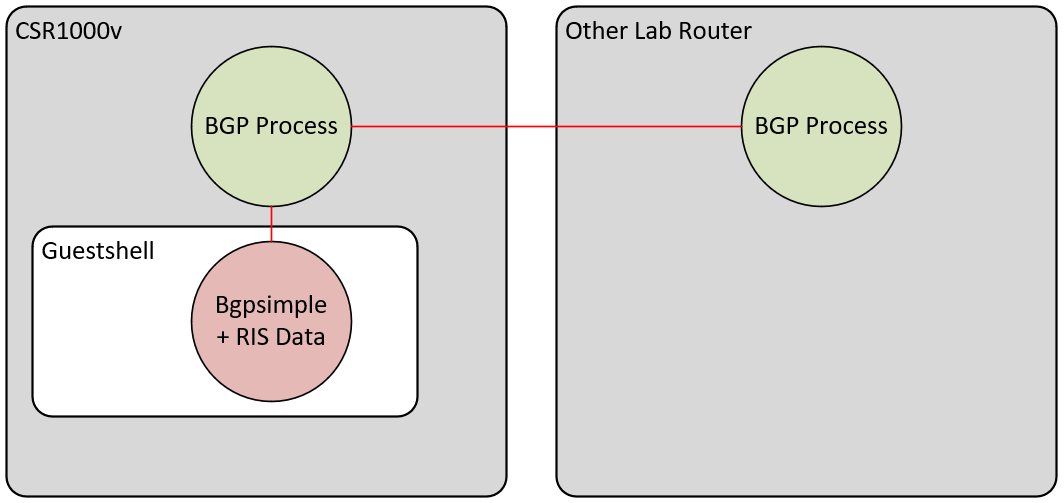
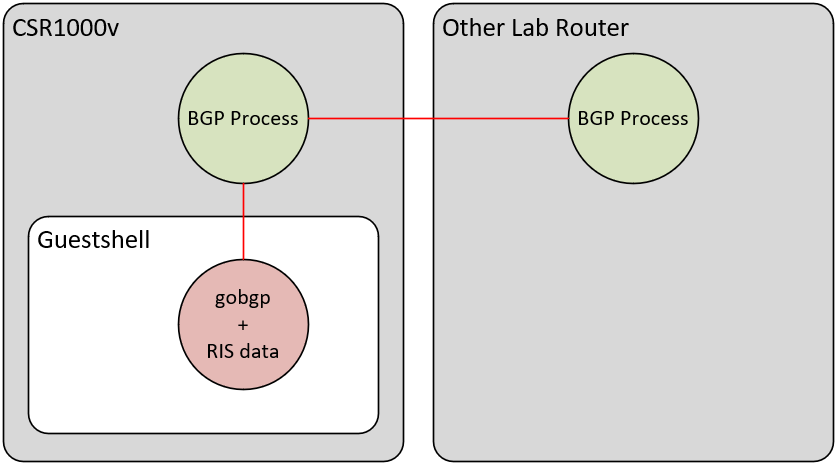
added instructions for gobgp instead

Changed region(s): [[0.0, 0.0, 1.0, 1.0], [0.7145, 0.3605, 0.7455, 0.3906]]

diff --git a/README.md b/README.md
@@ -72,31 +72,45 @@ This works by running a guestshell instance on a CSR1000v router and then peerin
 
     `sudo yum update -y nss curl libcurl`
 
-6. Clone this git repo inside of your guestshell and enter the directory.
+6. Install Go using [these instructions](https://linuxize.com/post/how-to-install-go-on-centos-7/).
+
+7. Change directory into the /bootflash directory and download GoBGP.
+
+    `cd /bootflash && wget https://github.com/osrg/gobgp/releases/download/v2.10.0/gobgp_2.10.0_linux_amd64.tar.gz`
+
+8. Extract the tar.gz file.
+
+    `sudo tar zxvf gobgp_2.10.0_linux_amd64.tar.gz --wildcards -C /usr/sbin 'gobgp*'`
+
+9. Clone this git repo inside of your guestshell and enter the directory.
 
     `git clone https://github.com/clay584/run-dfz.git /bootflash/run-dfz && cd /bootflash/run-dfz`
 
-7. Extract the routes files to the router's bootflash (bootflash has plenty of space available).
+10. Download any of the route data files from RIPE.
 
-    `tar zxvf routes.tar.gz`
+    `https://www.ripe.net/analyse/internet-measurements/routing-information-service-ris/ris-raw-data`
 
-8. Enter a tmux shell.
+11. Extract the routing data.
+
+    `gunzip -d latest-bviews.gz`
+
+12. Enter a tmux shell.
 
     `tmux`
 
-9. Run bgpsimple and point to a routes file.
+13. Run gobgpd and point to `gobgpd.conf`.
 
-    `sudo ./bgp_simple -myas 64999 -myip 192.168.100.2 -peerip 192.168.100.1 -peeras 65000 -p routes-short.txt -holdtime 300 -keepalive 30 -o /dev/null > /dev/null 2>&1`
+    `sudo -E ./gobgpd -f gobgpd.conf`
 
-    You can also use the `-m` flag to limit the number of prefixes from the file to advertise. For example, the below command would only inject 100 prefixes.
+14. Exit the guestshell
 
-    `sudo ./bgp_simple -myas 64999 -myip 192.168.100.2 -peerip 192.168.100.1 -peeras 65000 -p routes-short.txt -holdtime 300 -keepalive 30 -m 100 -o /dev/null > /dev/null 2>&1`
+    `ctrl + b` then press `d` to disconnect from the tmux session.
 
-10. Exit the guestshell
+15. Inject the routes with the gobgp client cli tool where the last parameter (100000) is the number of prefixes to inject. You can go as high as you want, but if you run this inside of guestshell, the resources are so constrained that it is likely it will crash gobgp. 100k routes is a good number. If you want all 800k, then it is much more stable to run this gobgp part from a regular linux server that has engough CPU and memory to do the whole table.
 
-    `ctrl + b` then press `d` to disconnect from the tmux session. Then type `exit` to leave guestshell and go back to the router prompt.
+    `gobgp mrt --no-ipv6 --nexthop 192.168.100.2 inject global latest-bview 100000`
 
-11. Configure BGP on the router.
+16. Configure BGP on the router.
     ```
     conf t
     router bgp 65000
@@ -110,59 +124,26 @@ This works by running a guestshell instance on a CSR1000v router and then peerin
     !
     end
     ```
-12. The BGP peering should come up and you should get a lot of routes in the RIB.
+17. The BGP peering should come up and you should get a lot of routes in the RIB.
 
     ```
     Router#sh ip bgp sum
-    BGP router identifier 192.168.100.1, local AS number 65000
-    BGP table version is 174268, main routing table version 174268
-    174267 network entries using 43218216 bytes of memory
-    174267 path entries using 23700312 bytes of memory
-    26419/26419 BGP path/bestpath attribute entries using 7397320 bytes of memory
-    22041 BGP AS-PATH entries using 1108960 bytes of memory
-    20 BGP community entries using 480 bytes of memory
+    BGP router identifier 192.168.4.97, local AS number 65000
+    BGP table version is 6345703, main routing table version 6345703
+    807176 network entries using 200179648 bytes of memory
+    807176 path entries using 109775936 bytes of memory
+    120947/120947 BGP path/bestpath attribute entries using 33865160 bytes of memory
+    106349 BGP AS-PATH entries using 5628320 bytes of memory
+    1 BGP ATTR_SET entries using 40 bytes of memory
+    292 BGP community entries using 17064 bytes of memory
+    13 BGP extended community entries using 432 bytes of memory
     0 BGP route-map cache entries using 0 bytes of memory
     0 BGP filter-list cache entries using 0 bytes of memory
-    BGP using 75425288 total bytes of memory
-    BGP activity 174267/0 prefixes, 174267/0 paths, scan interval 60 secs
+    BGP using 349466560 total bytes of memory
+    BGP activity 807176/0 prefixes, 807176/0 paths, scan interval 60 secs
 
     Neighbor        V           AS MsgRcvd MsgSent   TblVer  InQ OutQ Up/Down  State/PfxRcd
-    192.168.100.2   4        64999  174374      62   174268    0    0 00:53:55   174267
+    192.168.4.72    4        64999 6345738      41  6345703    0    0 00:17:08   807176
     ```
 
-13. Once you have this working, it is ok to disconnect the router from the real network. It is no longer needed after installation.
-
-# Route Files
-
-Inside of the routes.tar.gz file, there are four files. You can use any of these you want. I found that 800k prefixes tends to crash the CSR1000v routers in my lab, so that's why I created the partial files.
-
-* `routes.txt` - Full tables (~800k prefixes) from one peer at the Equinix Miami MI1 data center (RIPE RIS Data from 10/28/2019).
-* `routes-short.txt` - Partial tables (~175k prefixes) from one peer at the Equinix Miami MI1 data center (RIPE RIS Data from 10/28/2019).
-* `routes2.txt` - Full tables (~800k prefixes) from a second peer at the Equinix Miami MI1 data center (RIPE RIS Data from 10/28/2019).
-* `routes2-short.txt` - Partial tables (~175k prefixes) from a second peer at the Equinix Miami MI1 data center (RIPE RIS Data from 10/28/2019).
-
-# Misc Info
-
-In order to create the route files, the data was downloaded from the [RIPE NCC RIS Raw Data](https://www.ripe.net/analyse/internet-measurements/routing-information-service-ris/ris-raw-data) page.
-
-The bgpdump program was downloaded from [here](http://ris.ripe.net/source/bgpdump/) and compiled.
-
-Then this command was used to get the different peers from that RIS data.
-
-`zcat latest-bview.gz | bgpdump -m - | head -50000 | cut -d '|' -f 4 | grep -v ':' | sort | uniq`
-
-Then select one of the peers and use this command to get the data for just one peer.
-
-`zcat latest-bview.gz | bgpdump -m - | grep '198.32.124.254' > routes.txt`
-
-Then if you want to truncate it for partial tables, you just chop the file with sed.
-
-`sed -e "200000q" routes.txt > routes-short.txt`
-
-As for bgpsimple, I had quite a hard time getting this to compile and run on the guestshell container, so once I did, I used Par::Packer to compile the perl script to an actual executable. This made it so people (future me) didn't have to get a working perl environment, compile, and install bgpsimple or it's perl dependencies in the guestshell container.
-
-# Attribution
-
-Thanks to this article for helping with some of the bits I was unfamiliar with.
-
-[http://networkingbodges.blogspot.com/2019/04/a-real-full-internet-table-in-lab.html](http://networkingbodges.blogspot.com/2019/04/a-real-full-internet-table-in-lab.html)
+18. Once you have this working, it is ok to disconnect the router from the real network. It is no longer needed after installation.
